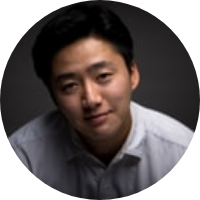
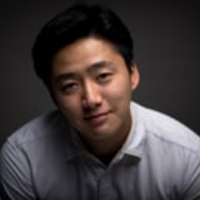
live session -english-

Changed region(s): [[0.0, 0.0, 1.0, 1.0], [0.0, 0.0, 0.48, 0.48]]

diff --git a/HomeEN.html b/HomeEN.html
@@ -1,17 +1,4 @@
 <!DOCTYPE html>
-
-<!-- 
-Template Name: Metronic - Responsive Admin Dashboard Template build with Twitter Bootstrap 4
-Author: KeenThemes
-Website: http://www.keenthemes.com/
-Contact: support@keenthemes.com
-Follow: www.twitter.com/keenthemes
-Dribbble: www.dribbble.com/keenthemes
-Like: www.facebook.com/keenthemes
-Purchase: http://themeforest.net/item/metronic-responsive-admin-dashboard-template/4021469?ref=keenthemes
-Renew Support: http://themeforest.net/item/metronic-responsive-admin-dashboard-template/4021469?ref=keenthemes
-License: You must have a valid license purchased only from themeforest(the above link) in order to legally use the theme for your project.
--->
 <html lang="en">
 
 	<!-- begin::Head -->
@@ -35,15 +22,11 @@ License: You must have a valid license purchased only from themeforest(the above
 		<!--end::Web font -->
 
 		<!--begin::Global Theme Styles -->
-		<!--<link href="assets/vendors/base/vendors.bundle.css" rel="stylesheet" type="text/css" />-->
-
         <!--RTL version:-->
       
 	<link href="assets/demo/default/base/style.bundle.css" rel="stylesheet" type="text/css" />
 
         <!--RTL version:-->
-           <!-- <link href="assets/demo/default/base/style.bundle.rtl.css" rel="stylesheet" type="text/css" />-->
-
 		<!--end::Global Theme Styles -->
 		<link rel="shortcut icon" href="assets/main/img/logo.png" />
 

diff --git a/Home.html b/Home.html
@@ -1,17 +1,4 @@
 <!DOCTYPE html>
-
-<!-- 
-Template Name: Metronic - Responsive Admin Dashboard Template build with Twitter Bootstrap 4
-Author: KeenThemes
-Website: http://www.keenthemes.com/
-Contact: support@keenthemes.com
-Follow: www.twitter.com/keenthemes
-Dribbble: www.dribbble.com/keenthemes
-Like: www.facebook.com/keenthemes
-Purchase: http://themeforest.net/item/metronic-responsive-admin-dashboard-template/4021469?ref=keenthemes
-Renew Support: http://themeforest.net/item/metronic-responsive-admin-dashboard-template/4021469?ref=keenthemes
-License: You must have a valid license purchased only from themeforest(the above link) in order to legally use the theme for your project.
--->
 <html lang="en">
 
 	<!-- begin::Head -->
@@ -35,12 +22,7 @@ License: You must have a valid license purchased only from themeforest(the above
 		<!--end::Web font -->
 
 		<!--begin::Global Theme Styles -->
-		<!--<link href="assets/vendors/base/vendors.bundle.css" rel="stylesheet" type="text/css" />-->
-
         <!--RTL version:-->
-      
-		<!--<link href="assets/demo/default/base/style.bundle.css" rel="stylesheet" type="text/css" />-->
-
         <!--RTL version:-->
             <link href="assets/demo/default/base/style.bundle.rtl.css" rel="stylesheet" type="text/css" />
 

diff --git a/LiveSessionEN.html b/LiveSessionEN.html
@@ -23,9 +23,10 @@
 
 		<!--begin::Global Theme Styles -->
         <!--RTL version:-->
+      
+	   <link href="assets/demo/default/base/style.bundle.css" rel="stylesheet" type="text/css" />
+ 
         <!--RTL version:-->
-            <link href="assets/demo/default/base/style.bundle.rtl.css" rel="stylesheet" type="text/css" />
-
 		<!--end::Global Theme Styles -->
 		<link rel="shortcut icon" href="assets/main/img/logo.png" />
 
@@ -41,6 +42,7 @@
         <link rel="stylesheet" href="assets/main/css/mdb.min.css">
         <!-- Your custom styles (optional) -->
         <link rel="stylesheet" href="assets/main/css/style.css">
+         <link rel="stylesheet" href="assets/main/css/styleEN.css">
 	</head>
 
 	<!-- end::Head -->
@@ -92,7 +94,7 @@
               </li>
 
               <li class="nav-item">
-                <a class="nav-link" href="#" target="_blank"><img src="assets/main/img/EN.png" class="img-fluid"/></a>
+                <a class="nav-link" href="LiveSessionEN.html" target="_blank"><img src="assets/main/img/Ar.png" class="img-fluid"/></a>
               </li>
               <li class="nav-item">
             

diff --git a/assets/main/css/styleEN.css b/assets/main/css/styleEN.css
@@ -1,0 +1,21 @@
+.search-btn{
+    transform-origin: -238% -4%;
+}
+.search-btn-ico{
+    margin-left: -27px;
+}
+.search-bar input:focus + .search-btn, .search-bar input:valid + .search-btn {
+background: #1b4a95;
+border-radius: 0.375em 0 0 0.375em ;
+
+}
+.carousel .carousel-control-prev-icon {
+background-image: url(../img/left.png);
+
+}
+.carousel .carousel-control-next-icon {
+background-image: url(../img/right.png);
+}
+.carousel-control-next {
+right: 0;
+}

diff --git a/assets/main/css/style.css b/assets/main/css/style.css
@@ -1106,6 +1106,7 @@ height: 60vh;
 .img{
   height: 150px;
   width: 150px;
+  border-radius: 100%;
 }
 .carousel-control-next {
   right: auto;
